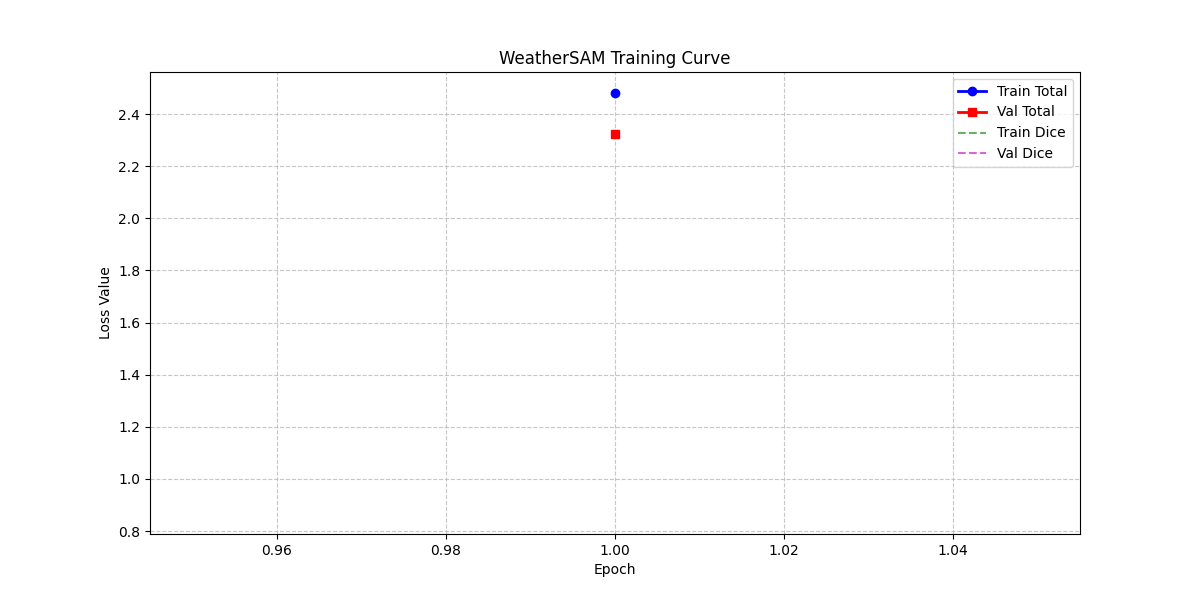
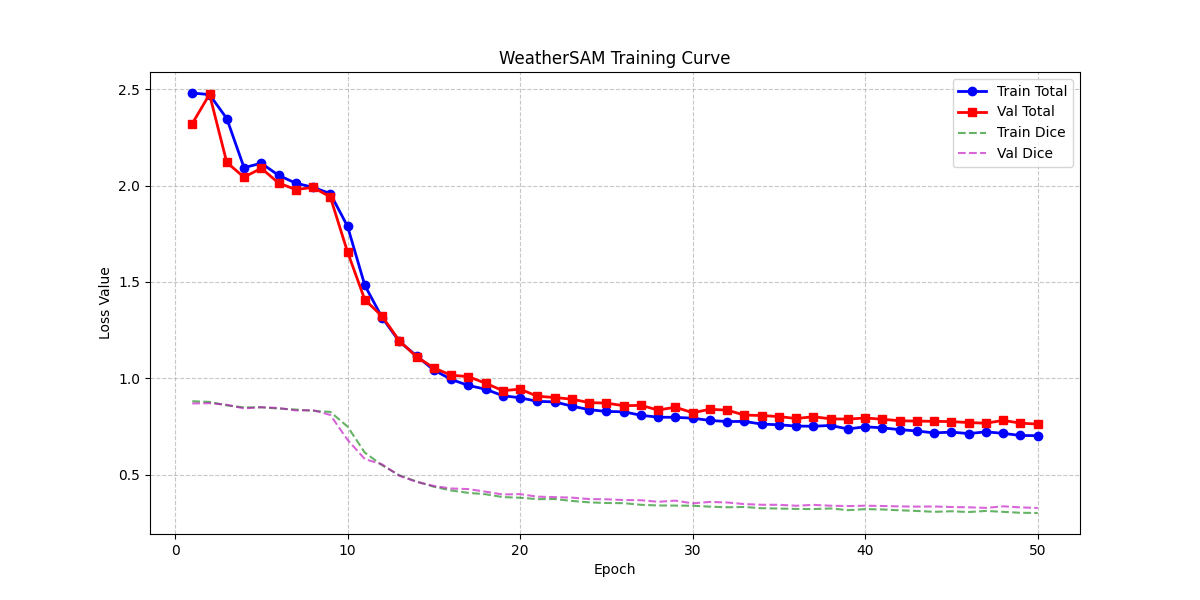
改變學習率 開放更多 image encoder 層

diff --git a/segment-anything/train.py b/segment-anything/train.py
@@ -20,45 +20,69 @@ def plot_history(history, output_dir):
     df = pd.DataFrame(history)
     plt.figure(figsize=(12, 6))
     
-    plt.plot(df['epoch'], df['train_total'], 'b-o', label='Train Total', linewidth=2)
-    plt.plot(df['epoch'], df['val_total'], 'r-s', label='Val Total', linewidth=2)
-    
-    if 'train_dice' in df.columns and 'val_dice' in df.columns:
-        plt.plot(df['epoch'], df['train_dice'], 'g--', label='Train Dice', alpha=0.6)
-        plt.plot(df['epoch'], df['val_dice'], 'm--', label='Val Dice', alpha=0.6)
-    
+    # 繪製 Loss 曲線
+    plt.subplot(1, 2, 1)
+    plt.plot(df['epoch'], df['train_total'], 'b-o', label='Train Total Loss', linewidth=2)
+    plt.plot(df['epoch'], df['val_total'], 'r-s', label='Val Total Loss', linewidth=2)
     plt.xlabel('Epoch')
-    plt.ylabel('Loss Value')
-    plt.title('WeatherSAM Training Curve')
+    plt.ylabel('Loss')
+    plt.title('Loss Curve')
     plt.legend()
     plt.grid(True, linestyle='--', alpha=0.7)
-    plt.savefig(os.path.join(output_dir, 'loss_curve.png'))
+
+    # 繪製 Dice Score 曲線 (將 Loss 轉為 Score: 1 - Loss)
+    plt.subplot(1, 2, 2)
+    if 'train_dice' in df.columns and 'val_dice' in df.columns:
+        # 注意: 這裡假設 log 中的 dice 是 Loss，所以用 1 減去它來畫 Score
+        train_score = 1.0 - df['train_dice']
+        val_score = 1.0 - df['val_dice']
+        plt.plot(df['epoch'], train_score, 'g--', label='Train Dice Score', alpha=0.6)
+        plt.plot(df['epoch'], val_score, 'm--', label='Val Dice Score', alpha=0.6)
+    
+    plt.xlabel('Epoch')
+    plt.ylabel('Dice Score')
+    plt.title('Accuracy Curve (Dice Score)')
+    plt.legend()
+    plt.grid(True, linestyle='--', alpha=0.7)
+    
+    plt.tight_layout()
+    plt.savefig(os.path.join(output_dir, 'training_curve.png'))
     plt.close()
-    print(f"📉 Loss curve updated at: {os.path.join(output_dir, 'loss_curve.png')}")
+    print(f"📉 Curves updated at: {os.path.join(output_dir, 'training_curve.png')}")
 
 def main():
     parser = argparse.ArgumentParser()
     parser.add_argument("--device", type=str, default="cuda" if torch.cuda.is_available() else "cpu")
-    parser.add_argument("--checkpoint", type=str, default="/home/rvl1421/SAM_research/segment-anything/checkpoints/sam_vit_h_4b8939.pth", help="Path to SAM checkpoint")
+    
+    # [修改 1] 預設載入上次最好的模型 (請確認你的路徑是否正確)
+    parser.add_argument("--checkpoint", type=str, 
+                        default="/home/rvl1421/SAM_research/segment-anything/outputs_weather_sam/weather_sam_best.pth", 
+                        help="Path to checkpoint. Point this to your best trained model.")
+    
     parser.add_argument("--model_type", type=str, default="vit_h", choices=["vit_b", "vit_h"])
     
-    # 修改：建議使用者優先使用 cached CSV
     parser.add_argument("--train_csv", type=str, default="/home/rvl1421/SAM_research/Datasets/train_cached.csv", 
-                        help="Path to train CSV. Use the '_cached.csv' generated by precompute_features.py for speed.")
+                        help="Path to train CSV.")
     parser.add_argument("--val_csv", type=str, default="/home/rvl1421/SAM_research/Datasets/val_cached.csv", 
                         help="Path to val CSV.")
     
     parser.add_argument("--batch_size", type=int, default=4)
     parser.add_argument("--epochs", type=int, default=50)
-    parser.add_argument("--lr", type=float, default=5e-5)
-    parser.add_argument("--output_dir", type=str, default="outputs_weather_sam")
+    
+    # [修改 2] 微調時降低 Learning Rate (原為 5e-5)
+    parser.add_argument("--lr", type=float, default=1e-5, help="Learning rate (lower for fine-tuning)")
+    
+    # [修改 3] 更改輸出目錄名稱，避免覆蓋舊實驗
+    parser.add_argument("--output_dir", type=str, default="outputs_weather_sam_finetune")
     
     args = parser.parse_args()
     
     os.makedirs(args.output_dir, exist_ok=True)
 
-    print(f"🚀 Start Training WeatherSAM ({args.model_type})...")
-    print(f"   Train CSV: {args.train_csv}")
+    print(f"🚀 Start Fine-Tuning WeatherSAM ({args.model_type})...")
+    print(f"   Checkpoint: {args.checkpoint}")
+    print(f"   Learning Rate: {args.lr}")
+    print(f"   Output Dir: {args.output_dir}")
     
     # 1. 建立模型
     print("🏗  Building model...")
@@ -70,7 +94,6 @@ def main():
     # 2. 準備 DataLoader
     print("📂 Preparing data...")
     
-    # 檢查 CSV 是否存在，若無 Cached 版本則退回原始版本
     if not os.path.exists(args.train_csv) and "_cached" in args.train_csv:
         print(f"⚠ Cached CSV not found. Falling back to non-cached version...")
         args.train_csv = args.train_csv.replace("_cached.csv", ".csv")
@@ -86,7 +109,6 @@ def main():
         print(f"⚠ Warning: Validation CSV not found. Using Train set for validation.")
         val_ds = WeatherSegmentationDataset(csv_file=args.train_csv, mode='val')
 
-    # DataLoader 設定
     train_loader = DataLoader(
         train_ds, 
         batch_size=args.batch_size, 
@@ -94,7 +116,7 @@ def main():
         num_workers=4,
         collate_fn=WeatherSegmentationDataset.collate_fn,
         pin_memory=True,
-        persistent_workers=True # ⚡ 加速：避免每個 epoch 重新創建 worker
+        persistent_workers=True
     )
     
     val_loader = DataLoader(
@@ -142,18 +164,34 @@ def main():
         pd.DataFrame(history).to_csv(os.path.join(args.output_dir, "train_log.csv"), index=False)
         plot_history(history, args.output_dir)
         
-        # 儲存最佳模型
+        # ------------------------------------------------------------------
+        # [修改 4] 儲存最佳模型 (包含詳細資訊)
+        # ------------------------------------------------------------------
         if val_metrics['total'] < best_val_loss:
             best_val_loss = val_metrics['total']
-            save_path = os.path.join(args.output_dir, "weather_sam_best.pth")
-            trainer.save_checkpoint(save_path)
-            print(f"   🏆 New best model saved!")
             
+            # 取得當前 LR
+            current_lr = trainer.optimizer.param_groups[0]['lr']
+            # 計算 Dice Score (假設 metrics 存的是 Loss)
+            current_dice_score = 1.0 - val_metrics['dice']
+            
+            # 建立詳細檔名
+            save_filename = f"best_E{epoch+1}_Dice{current_dice_score:.4f}_LR{current_lr:.1e}.pth"
+            save_path = os.path.join(args.output_dir, save_filename)
+            
+            trainer.save_checkpoint(save_path)
+            print(f"   🏆 New best model saved: {save_filename}")
+            
+            # 同時存一份固定名字的檔案，方便之後使用
+            fixed_path = os.path.join(args.output_dir, "weather_sam_best_latest.pth")
+            trainer.save_checkpoint(fixed_path)
+            
+        # 定期備份 (每 5 Epoch)
         if (epoch + 1) % 5 == 0:
             save_path = os.path.join(args.output_dir, f"weather_sam_epoch_{epoch+1}.pth")
             trainer.save_checkpoint(save_path)
 
-    print("\n✅ Training completed!")
+    print("\n✅ Fine-Tuning completed!")
 
 if __name__ == "__main__":
     main()

diff --git a/segment-anything/weather_trainer.py b/segment-anything/weather_trainer.py
@@ -28,7 +28,7 @@ class WeatherSAMTrainer:
         
         # [修改 1] Loss 權重策略：降低 Focal (背景懲罰)，大幅提高 Dice (形狀獎勵)
         # 這是為了解決 "Background Collapse" (模型預測全黑) 的問題
-        self.criterion = SAMLoss(focal_weight=2.0, dice_weight=2.0, iou_weight=1.0)
+        self.criterion = SAMLoss(focal_weight=1.0, dice_weight=4.0, iou_weight=1.0)
         
         self.scaler = torch.amp.GradScaler('cuda')
         
@@ -61,9 +61,11 @@ class WeatherSAMTrainer:
             # 取出最後兩層 (無論是 ViT-B 還是 ViT-H 都通用)
             layers_to_unfreeze = [
                 self.model.image_encoder.blocks[-1],
-                self.model.image_encoder.blocks[-2]
+                self.model.image_encoder.blocks[-2],
+                self.model.image_encoder.blocks[-3], # 新增
+                self.model.image_encoder.blocks[-4]  # 新增
             ]
-            print("🔓 Unfreezing the last 2 blocks of Image Encoder for domain adaptation.")
+            print("🔓 Unfreezing the last 4 blocks of Image Encoder for domain adaptation.")
             for layer in layers_to_unfreeze:
                 for param in layer.parameters():
                     param.requires_grad = True
@@ -181,7 +183,8 @@ class WeatherSAMTrainer:
 
             pbar.set_postfix(
                 loss=total_loss.item(), 
-                dice=(loss_dict_accum['dice']/batch_size)
+                dice=(loss_dict_accum['dice']/batch_size),
+                dice_score=1.0 - (loss_dict_accum['dice']/batch_size)
             )
 
             # -------------------------------------------------------
@@ -193,9 +196,9 @@ class WeatherSAMTrainer:
                 pred_logit = first_batch_logits[0, 0, :, :]
                 mask_viz = torch.sigmoid(pred_logit).detach().cpu().numpy()
                 
-                # 存圖
-                save_path = f"debug_viz/epoch_{epoch_index+1}_step_{step_count}.png"
-                plt.imsave(save_path, mask_viz, cmap='gray')
+                # # 存圖
+                # save_path = f"debug_viz/epoch_{epoch_index+1}_step_{step_count}.png"
+                # plt.imsave(save_path, mask_viz, cmap='gray')
                 
                 # 印出最大值，檢查是否全黑 (<0.1) 或全白 (>0.9)
                 max_val = mask_viz.max()
